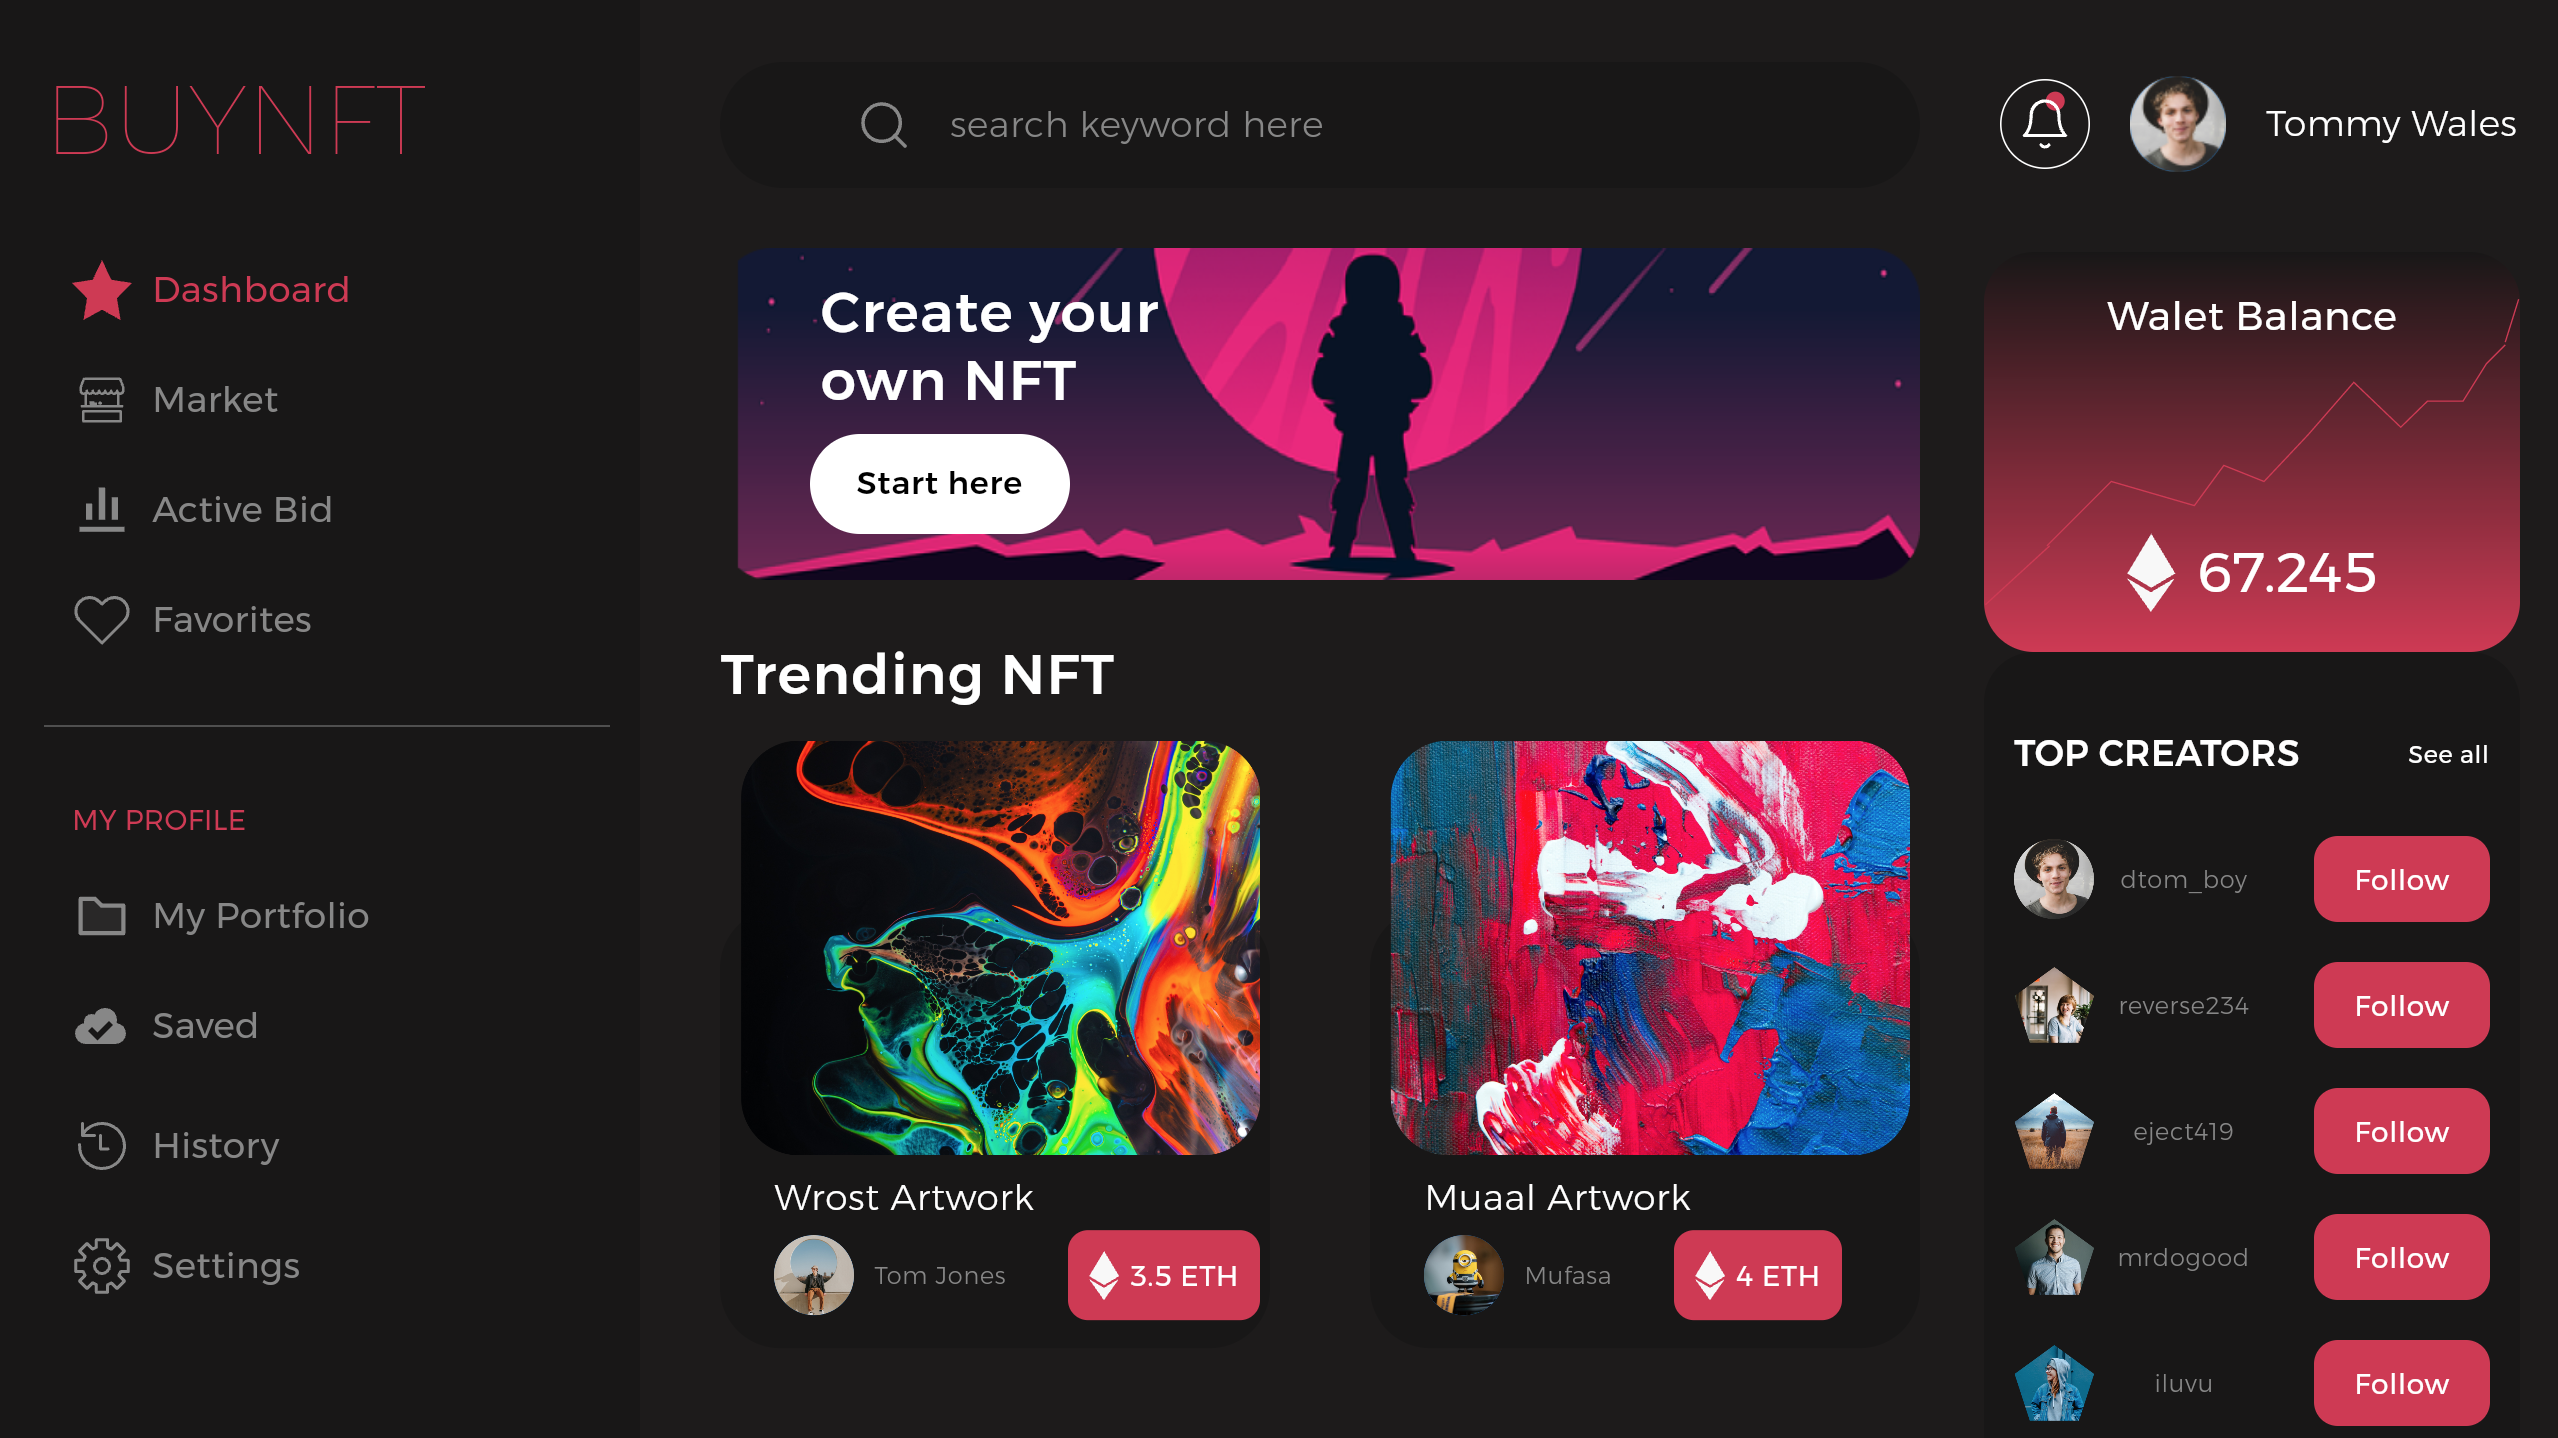
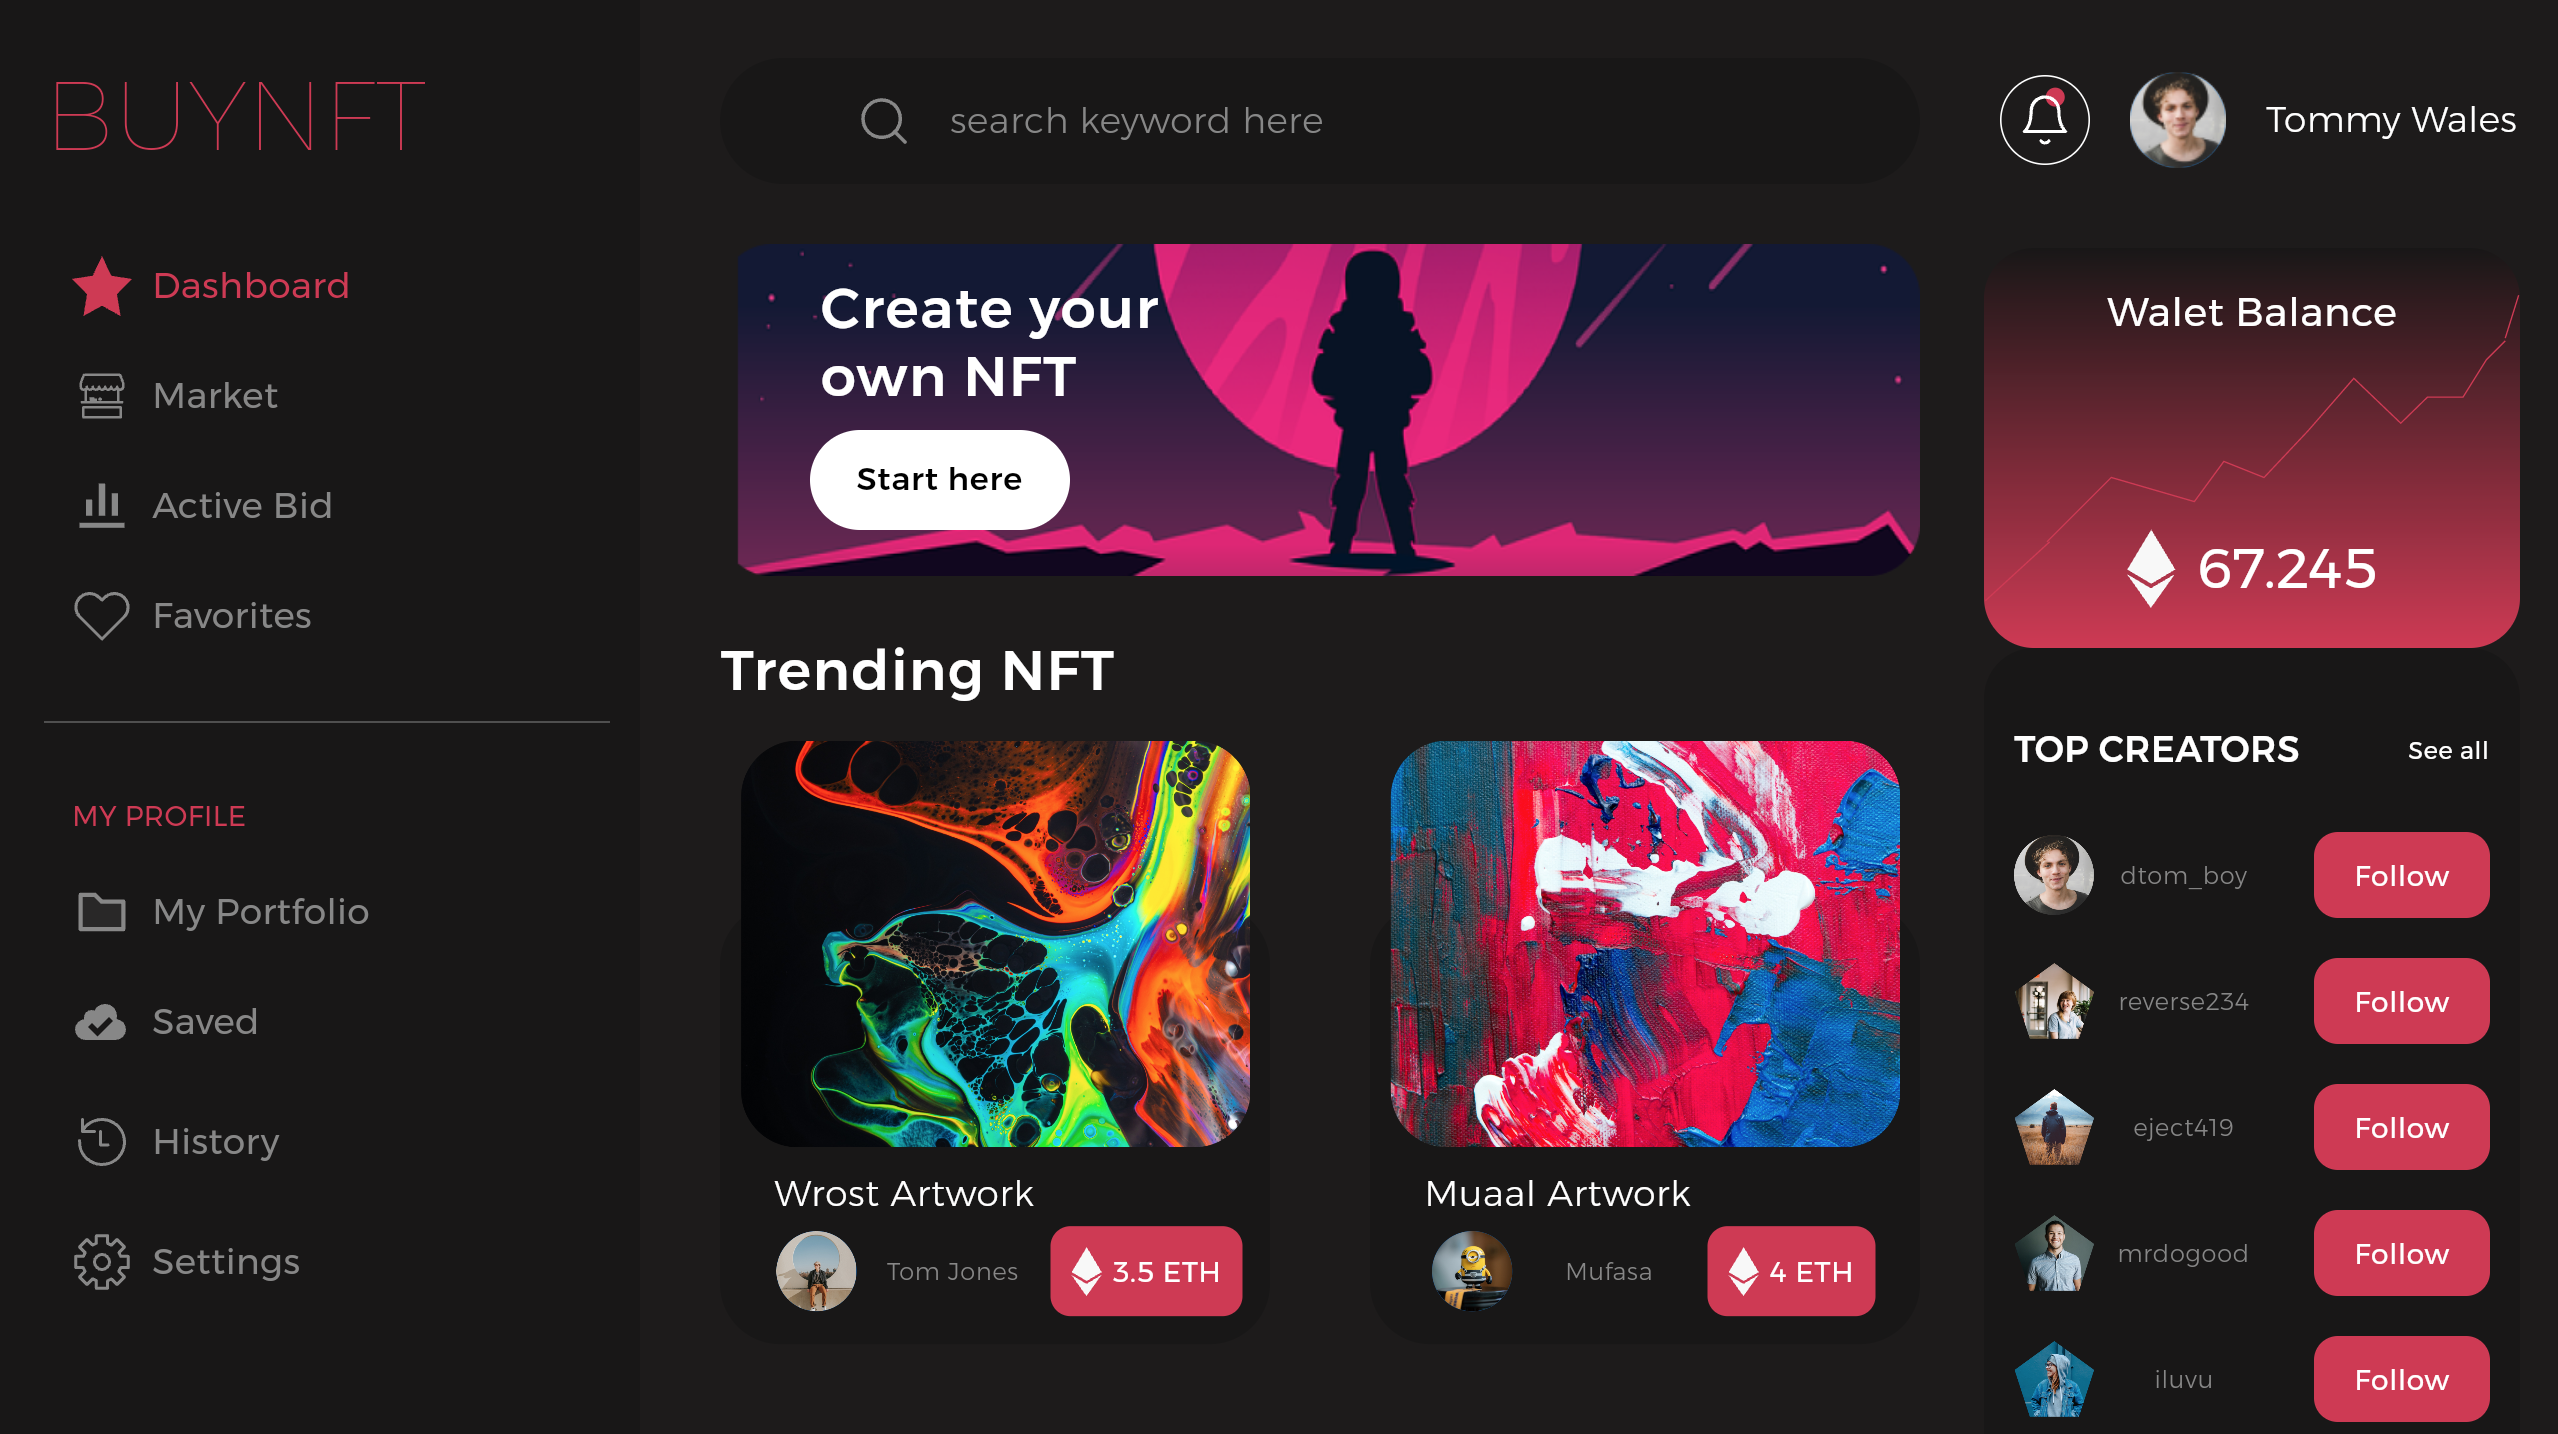
fix  dashboard_ui

diff --git a/dashboard_ui/lib/MainContent.dart b/dashboard_ui/lib/MainContent.dart
@@ -177,36 +177,40 @@ class _GridItemState extends State<GridItem> {
               children: [
                 Text(widget.title, style: kGridItemTitleStyle),
                 const SizedBox(height: 5),
-                Row(crossAxisAlignment: CrossAxisAlignment.center, children: [
-                  CircleAvatar(
-                    child: Image.asset(widget.avatarPath),
-                  ),
-                  const SizedBox(width: 10),
-                  Text(
-                    widget.avtorName,
-                    style: kAvtorNameStyle,
-                  ),
-                  const SizedBox(width: 30),
-                  Container(
-                    padding: const EdgeInsets.fromLTRB(10, 10, 10, 10),
-                    decoration: kGridItemPriceBoxStyle,
-                    child: Row(children: [
-                      SvgPicture.asset('assets/ETH_icon.svg'),
-                      const SizedBox(width: 5),
-                      Text(
-                        '${widget.price} ETH',
-                        style: kGridItemPriceTextStyle,
+                Row(
+                    crossAxisAlignment: CrossAxisAlignment.center,
+                    mainAxisAlignment: MainAxisAlignment.spaceAround,
+                    children: [
+                      CircleAvatar(
+                        child: Image.asset(widget.avatarPath),
                       ),
+                      const SizedBox(width: 10),
+                      Text(
+                        widget.avtorName,
+                        style: kAvtorNameStyle,
+                      ),
+                      const SizedBox(width: 10),
+                      Container(
+                        padding: const EdgeInsets.fromLTRB(10, 10, 10, 10),
+                        decoration: kGridItemPriceBoxStyle,
+                        child: Row(children: [
+                          SvgPicture.asset('assets/ETH_icon.svg'),
+                          const SizedBox(width: 5),
+                          Text(
+                            '${widget.price} ETH',
+                            style: kGridItemPriceTextStyle,
+                          ),
+                        ]),
+                      ),
+                      const SizedBox(width: 10),
                     ]),
-                  ),
-                ]),
               ]),
         ),
         Positioned(
           top: -110,
           left: 10,
           child: SizedBox(
-            width: 260,
+            width: 255,
             height: 260,
             child: Stack(children: [
               Align(
